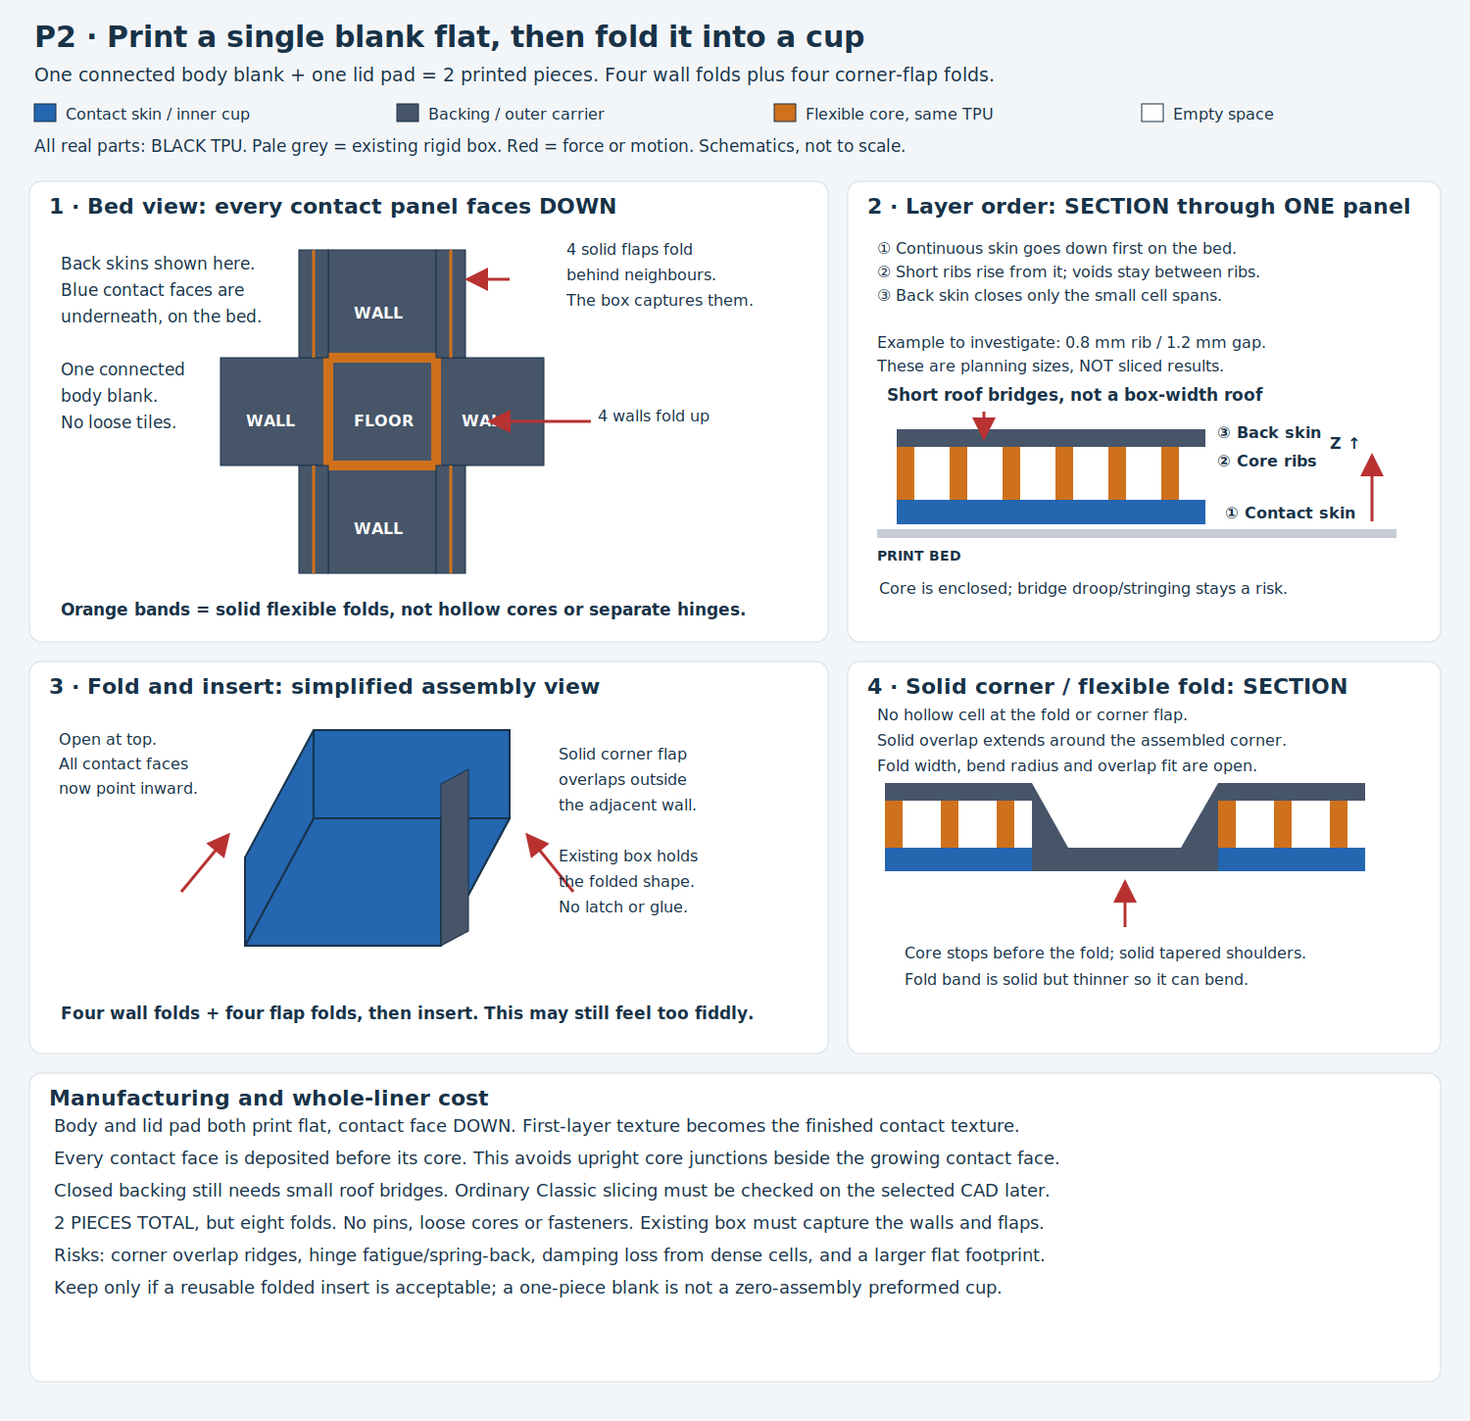
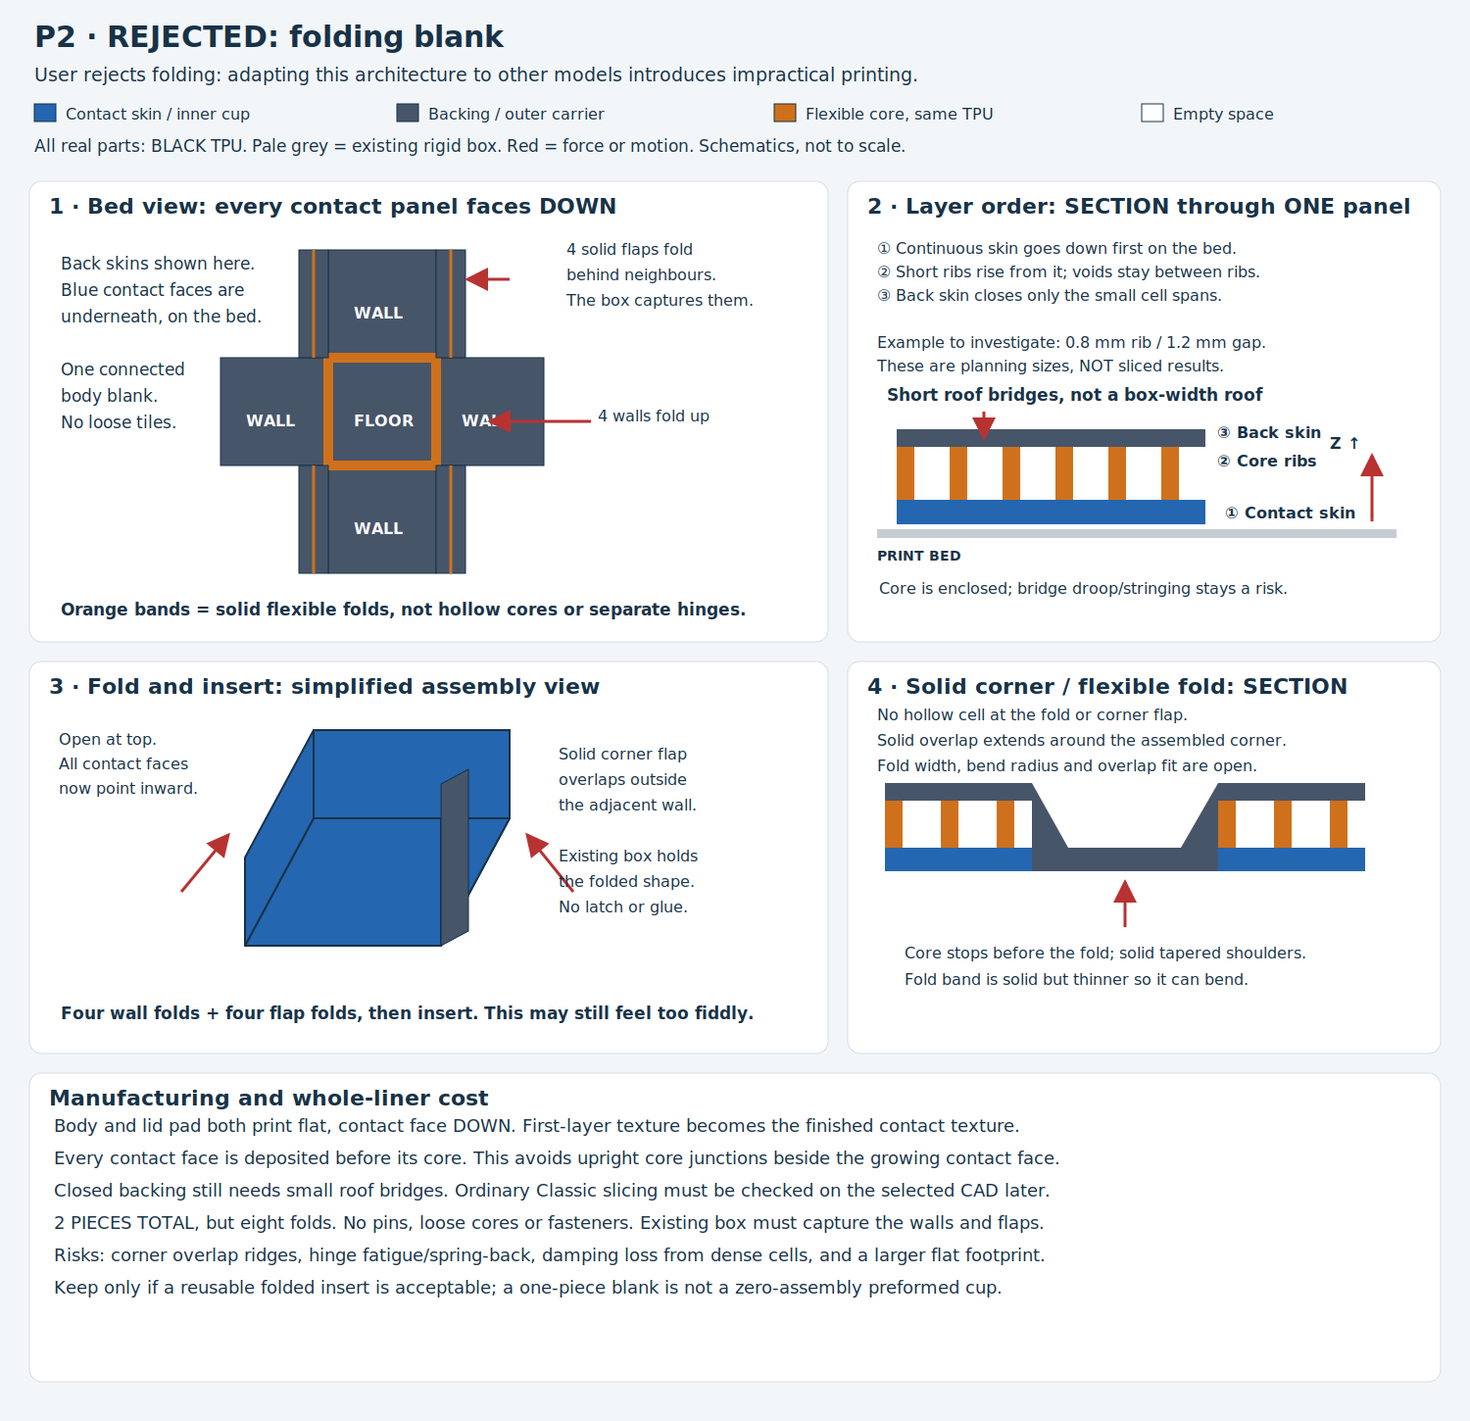
Retire separate-cup and folding TPU concepts after user review

Changed region(s): [[0.0307, 0.0, 0.6747, 0.0621]]

diff --git a/model/tpu_damping_box/notes/print_first_concepts.md b/model/tpu_damping_box/notes/print_first_concepts.md
@@ -14,17 +14,36 @@ baseline. No CAD, exports, slicing or profile changes are made in this phase.
 
 The user confirms **up to two cup pieces, plus the usual lid pad**. P1 meets
 that preference: two cup parts and one pad, three pieces for the complete liner.
-P2 uses one connected body blank and one pad, two total, but requires eight folds.
-P1 is the recommended concept to discuss next because it separates the contact
-cup's print from the core with just a nesting operation. This recommendation is
-not user selection, CAD approval or a damping result. The existing rigid test box
-and its lid are reused and are not additional printed liner components.
+P2 uses one connected body blank and one pad, two total, but requires eight
+folds. **Latest user correction: P1 is set aside.** The user points out that
+thin TPU walls have already printed poorly in this repository, so a separately
+printed thin-walled cup does not resolve the known manufacturing risk. The
+earlier recommendation below is superseded. Part count was acceptable; upright
+wall reliability is the objection. **P2 is also rejected:** the user dislikes
+folding because adopting it to other models would introduce constructions they
+consider impossible to print. A printable flat net for this simple fixture is
+insufficient evidence of a usable architecture for other shapes. Do not replace
+it with separate folding tiles. The existing rigid test box and its lid are
+reused, not additional printed liner components.
+
+The retained [dental wall report](../../dental_travel_case_liner/README.md#wall-
+print-feedback--2026-10-19) records local breaks on both skins of the tall
+liner. The short sunglasses liner was successful; exact causes and printed
+dental revision remain unknown. The separate R1 missing-wall slice failure and
+R2 Classic repair are different evidence: paths existing in a slice do not prove
+reliable deposited walls. P1 removed print-time core junctions but retained
+upright walls and offered no representative physical evidence for them. I should
+have applied this known failure before recommending that architecture. Both
+proposals are now retired from the active shortlist. This correction does not
+establish that all thicker TPU cups fail, nor justify silently thickening P1 and
+promoting it again. Thickness is unconstrained, but reliability and useful
+damping would both need support for any genuinely revised construction.
 
 ## What the manufacturing review changes
 
 | Earlier suggestion | Current decision and reason |
 | --- | --- |
-| E1: two cups with attached wall springs | Reworked as P1, with integral floor posts, rooted wall springs, an open top and **one** lid pad. The earlier floor/lid modules were unresolved, not ready to print. |
+| E1 / P1: two cups with attached wall springs | **Set aside after the latest user correction:** still relies on upright thin TPU walls despite earlier physical failures. Integral floor posts and a simple assembly did not resolve that risk. |
 | E5: independent wave insert | Retired from the active shortlist. A constant-section insert can be printed upright, but a complete liner adds core retention and floor/lid pieces for no established benefit over an integral carrier. |
 | E6: loose hollow tubes | Retired. Upright open tubes need no tube roof, but arranging/retaining numerous tubes and the floor modules is the wrong assembly burden here. This is not a claim that individual tubes are unprintable. |
 | E2/E4 | Remain dropped after user feedback. P2 borrows E2's useful flat-print orientation, replacing separate wall tiles with **one connected blank**, not reviving its multipart assembly. |
@@ -59,7 +78,7 @@ clearance. P2 uses solid fold bands and solid overlapping corner flaps; its fold
 bands are thinner than the sandwich so they can bend. These are different
 interpretations of a robust corner, with untested stiffness and fit.
 
-## P1 — plain inner cup in an integral spring carrier
+## Historical P1 — plain inner cup in an integral spring carrier (set aside)
 
 Print **two upright cup parts**, then drop one inside the other. The blue cup is
 an ordinary closed-floor, open-top cup, with no internal-core junctions in its
@@ -103,13 +122,14 @@ Posts and wall springs can also imprint the cup **after** assembly. P1 removes
 print-time core branching from the inner surface, not every source of marks,
 seams, friction or poor damping.
 
-If advanced to CAD, reject or revise it if the carrier has isolated spring starts,
-its top retention closes a broad roof, its floor posts are too stiff, corner
-lands jam the cup, or the lid requires more loose parts. No auxiliary floor
-module is hidden in this count. This is the simpler assembly option and meets the clarified cup-plus-pad
-preference.
+If advanced to CAD, reject or revise it if the carrier has isolated spring
+starts, its top retention closes a broad roof, its floor posts are too stiff,
+corner lands jam the cup, or the lid requires more loose parts. No auxiliary
+floor module is hidden in this count. The assembly meets the clarified cup-plus-
+pad preference, but this does not resolve the wall-printing objection; P1 is no
+longer recommended.
 
-## P2 — flat sandwich blank, folded into the existing box
+## Historical P2 — flat sandwich blank, folded into the existing box (rejected)
 
 Print one connected cross-shaped body blank **contact face down**, plus one lid
 pad in the same face-down orientation. The floor and four wall panels are joined
@@ -170,20 +190,25 @@ a starting reference for the pad, not proof of changed spans or interfaces.
 
 The two proposals now expose build orientation, all starts/roofs, corner
 construction, floor/lid construction and complete part counts. That permits a
-choice **before** modelling. P1 is the clearer route to independently printed
-contact walls with little assembly; P2 is the route to two total pieces with
-bed-printed contact faces, at the cost of folding. No proposal is promoted to
-approved or better damping. No new physical test is reported.
+choice **before** modelling. Both are now retired: P1 retains the thin upright
+wall risk; P2's folding architecture is rejected for adoption to other models.
+No proposal remains selected from this review and no new physical test is
+reported. This is a corrected architectural decision, not an inconclusive slice.
 
-If one is selected for modelling, use real selected CAD and the ordinary Classic
-slice to check wall generation, the identified bridge layers, seams/travels and
-full layout. Physical comparison to approved B/S is still required for surface
-quality, handling and damping. Current authorized phase remains discussion/SVGs.
+Future exploration should start from the approved B evidence and compare
+preformed constructions that remain printable when adapted to real container
+shapes. One cup piece is preferred, up to two cup pieces plus the usual pad are
+acceptable; complicated assembly, thin separate cups and folding are not the
+current route. This does not yet select another core, guarantee a smoother
+surface or authorize new CAD. The next authorized phase remains concept
+investigation/SVGs, with existing physical failures screened before suggestions
+are recommended.
 
 | Item | Print status | Artifact(s) | User result or remaining physical checks |
 | --- | --- | --- | --- |
 | Test piece(s), P1/P2 | N/A | SVG explainers only; no exported print files | No new physical trial; surface/damping remain unknown. |
-| Final printable object(s), P1/P2 | N/A | None; concept phase | Complete CAD/Classic checks and physical review would follow selection. |
+| Final printable object(s), P1/P2 | N/A | None; concept phase | P1 set aside; P2 rejected. |
+
 - CAD/export/slicer status: N/A — no new model evaluated or sliced.
 - Physical validation: unknown for P1/P2; B08/B16 approval remains separate.
 - Documentation validation: SVG XML parsing, raster preview inspection and

diff --git a/.codex/skills/cadquery-3d-design/references/reusable-model-lessons.md b/.codex/skills/cadquery-3d-design/references/reusable-model-lessons.md
@@ -86,7 +86,7 @@ selecting an experimental liner, and qualify each new application.
 
 **Scope and limits:** Approved starting profile for rigid-shell/TPU impact liners, including the requested sunglasses-case adaptation. Preserve both skins and local rib dimensions; review new coverage, corners, installation, contents and printing. Consult the linked S16 adaptation ironing lesson when choosing the contact-skin finish. Subjective single-setup evidence at user-confirmed 0.2 mm layers; other exact settings, cause, dB, wear and application performance unknown. No universal optimum or material calibration.
 
-**Later comparison:** [2026-10-21 A/B/C report](../../../../model/tpu_damping_box/notes/b_surface_concepts.md): user approves B08/B16 with damping similar to S16 and improved object-facing finish, tentatively favoring B08 print quality; rejects A16/A20 frames and C12/C16 solids for damping. Phone ranges are approximate observations, not calibrated attenuation. Existing B tie layers contain more disconnected deposition chains than layers between ties, while their visible contact contour stays closed. Printed strings/seam artifacts and tall-liner survival remain unresolved; proposed SVG patterns have no CAD/slice/physical qualification. This advances the experiment without replacing successful application-specific S16 evidence. The user subsequently finds D tie changes inadequate as the main surface solution and requests [architectural separation](../../../../model/tpu_damping_box/notes/surface_decoupling.md), explicitly unconstrained in thickness, with solid corner lands. The reported issue is visible surface patterns/occasional bumps in black TPU. The user later finds E1 interesting but its color/space explanation unclear, drops E2/E4 and doubts E3. The later [print-first review](../../../../model/tpu_damping_box/notes/print_first_concepts.md) retires E5/E6 loose cores for complete-liner assembly burden, reworks E1 as an integral carrier and compares a connected flat folding blank. It exposes orientation, layer support, floor/lid and all part counts; the user confirms two cup pieces plus the usual lid pad are acceptable. Three-piece nested and two-piece/eight-fold alternatives remain unselected and have no CAD, slice or physical qualification.
+**Later comparison:** [2026-10-21 A/B/C report](../../../../model/tpu_damping_box/notes/b_surface_concepts.md): user approves B08/B16 with damping similar to S16 and improved object-facing finish, tentatively favoring B08 print quality; rejects A16/A20 frames and C12/C16 solids for damping. Phone ranges are approximate observations, not calibrated attenuation. Existing B tie layers contain more disconnected deposition chains than layers between ties, while their visible contact contour stays closed. Printed strings/seam artifacts and tall-liner survival remain unresolved; proposed SVG patterns have no CAD/slice/physical qualification. This advances the experiment without replacing successful application-specific S16 evidence. The user subsequently finds D tie changes inadequate as the main surface solution and requests [architectural separation](../../../../model/tpu_damping_box/notes/surface_decoupling.md), explicitly unconstrained in thickness, with solid corner lands. The reported issue is visible surface patterns/occasional bumps in black TPU. The user later finds E1 interesting but its color/space explanation unclear, drops E2/E4 and doubts E3. The later [print-first review](../../../../model/tpu_damping_box/notes/print_first_concepts.md) retires E5/E6 loose cores for complete-liner assembly burden, reworks E1 as an integral carrier and compares a connected flat folding blank. It exposes orientation, layer support, floor/lid and all part counts; the user confirms two cup pieces plus the usual lid pad are acceptable. The user subsequently sets aside the nested-cup proposal because separate printing still depends on thin upright TPU walls, which previously failed in the tall dental liner. The user also rejects the flat folding architecture for poor printability when adapted to other model shapes; both proposals are retired, with no CAD, slice or physical qualification. Removing core-to-skin print junctions does not address independent wall stability/deposition risks.
 
 ### Flat-faced folded-web TPU impact liner
 

diff --git a/README.md b/README.md
@@ -179,7 +179,7 @@ and [C6](model/dental_travel_case/notes/clamshell_exploration.md) remain histori
 
 - Test pieces: Yes — prior liners at 0.2 mm layers; S16/S12 work, S16 preferred; I10 rejected. Earlier surface report: waviness remains despite 50% ironing. New [eight 30 mm finish coupons](model/tpu_damping_box/README.md#surface-finish-coupons--2026-10-17): not yet printed; surface and damping comparison pending. Other exact prior settings unknown
 - Final object: N/A — samples; B08/B16 now approved experimental candidates, S16 retained as the earlier approved reference; application fit/quietness require review
-- Current follow-up (2026-10-21): all six latest A/B/C pairs printed and compared. **B08/B16 approved**, similar damping to S16; B08 tentatively has fewer print issues. A16/A20 and solid C12/C16 rejected for damping relative to S16. B's object-facing finish is better, but stringing/seam artifacts remain. [Physical report](model/tpu_damping_box/notes/b_surface_concepts.md); D tie-pattern changes are insufficient as the main solution. [Current print-first SVG investigation](model/tpu_damping_box/notes/print_first_concepts.md) targets visible patterns/occasional bumps in black TPU, with thickness unconstrained and solid corner regions. New drawings show orientation, layer support, bridges and complete liner counts: P1 nested cups has three pieces including its lid pad; P2 flat folding blank has two pieces but eight folds. User confirms up to two cup pieces plus the usual lid pad; complex assembly unwanted. P1 meets that count and is recommended for discussion; both remain unselected, with P2's folding cost explicit. E5/E6 loose cores retired; E2/E4 dropped, E3 set aside. No new models or presets in this phase. Taller-liner breakage risk remains unqualified. Existing [R2 files/setup](model/tpu_damping_box/README.md#ordinary-classic-repair--r2) retained unchanged.
+- Current follow-up (2026-10-21): all six latest A/B/C pairs printed and compared. **B08/B16 approved**, similar damping to S16; B08 tentatively has fewer print issues. A16/A20 and solid C12/C16 rejected for damping relative to S16. B's object-facing finish is better, but stringing/seam artifacts remain. [Physical report](model/tpu_damping_box/notes/b_surface_concepts.md); D tie-pattern changes are insufficient as the main solution. [Current print-first SVG investigation](model/tpu_damping_box/notes/print_first_concepts.md) targets visible patterns/occasional bumps in black TPU, with thickness unconstrained and solid corner regions. Drawings show print orientation, layer support, bridges and complete liner counts. **P1/two cups is now set aside** after the user points out prior thin-TPU-wall printing failures: separate cups do not resolve upright-wall reliability. Up to two cup pieces plus the usual pad are acceptable; part count was not the rejection. **P2/folding is also rejected** for poor printability when adopting to other models. Both proposals retired; future exploration needs preformed constructions, with no replacement selected. E5/E6 loose cores retired; E2/E4 dropped, E3 set aside. No new models or presets in this phase. Taller-liner breakage risk remains unqualified. Existing [R2 files/setup](model/tpu_damping_box/README.md#ordinary-classic-repair--r2) retained unchanged.
 - Provenance: [Record](model/tpu_damping_box/README.md#attribution) · Agent effort: N/A — no performance study requested
 
 #### One-sided dental latch research

diff --git a/model/tpu_damping_box/README.md b/model/tpu_damping_box/README.md
@@ -14,17 +14,18 @@ TPU object-facing surface from the core. D's tie-pattern changes are insufficien
 as the main solution. The user explicitly removes wall/overall thickness limits
 and asks for solid corner regions. Current concerns are mainly visible surface
 patterns with occasional bumps; this is not a translucent-TPU investigation.
-The current [print-first comparison](notes/print_first_concepts.md) shows **P1**, a
-plain cup in an integral spring carrier, and **P2**, a connected flat blank folded
-into a cup. P1 prints upright and has three total pieces including its one lid
-pad; P2 prints contact-face down and has two total pieces but eight folds.
-The user confirms up to two cup pieces **plus the usual lid pad**; complicated
-assembly is unwanted. P1 meets that preference and is the recommended next
-discussion concept; P2's folding cost may still be unacceptable. Neither is
-selected or approved. E5/E6 are
-retired for whole-liner assembly cost; E2/E4 remain dropped and E3 set aside.
-The SVGs now show print orientation, layer support, bridges, corners, floor/lid
-and assembly rather than only wall mechanisms. Deliver SVG explainers only.
+The [print-first comparison](notes/print_first_concepts.md) retains the drawings,
+but **P1/two cups is now set aside**: the user points out that separately printing
+a thin-walled TPU cup still depends on upright-wall reliability that failed in
+earlier repository prints. Removing core junctions does not resolve that risk.
+The user allows up to two cup pieces plus the usual lid pad, so part count was
+acceptable; print reliability is the rejection. **P2/folding is also rejected**:
+the user does not want a folding architecture that becomes impractical to print
+when adapted to other models. Both are retired; no replacement is selected.
+Next exploration must use preformed constructions suited to real container
+shapes and the known wall-printing evidence. B08/B16 stay approved.
+E5/E6 loose cores remain retired; E2/E4 dropped, E3 set aside. Deliver SVG
+explainers only; no new physical trial is reported by this correction.
 **No new CAD models, exports or changed print presets are authorized in this
 phase.** Existing B files and settings remain the printed baseline.
 

diff --git a/.codex/skills/cadquery-3d-design/references/user-preferences.md b/.codex/skills/cadquery-3d-design/references/user-preferences.md
@@ -91,6 +91,12 @@ not make folding or insertion simple. The user explicitly excludes the usual
 lid pad from the one/two-cup-piece limit; still show the whole-liner count.
 [Owning print-first review](../../../../model/tpu_damping_box/notes/print_first_concepts.md).
 This is scoped to the current liner, not a universal ban on multipart products.
+Later feedback sets aside two thin upright cups because of prior wall-printing
+failures, and rejects folding because adapting it to other liner shapes would
+introduce impractical-to-print constructions. Future liner concepts should be
+preformed and transferable to intended container shapes; a simple fixture net
+alone does not settle that adoption. These are architecture decisions, not new
+physical print results or a universal claim that all thick TPU cups fail.
 
 The user reports that this printer is generally precise. Do not assume poor
 accuracy or use generous generic FDM clearances without an interface reason.

diff --git a/.codex/skills/cadquery-3d-design/references/design-decisions.md b/.codex/skills/cadquery-3d-design/references/design-decisions.md
@@ -161,7 +161,11 @@ whole assembly, including loose inserts, and state folding/insertion steps.
 The [subsequent print-first correction](../../../../model/tpu_damping_box/notes/print_first_concepts.md)
 exposed why a wall-only mechanism drawing was insufficient. Revise or drop an
 architecture whose missing components defeat printability or assembly simplicity;
-a printable individual core is not a complete printable liner.
+a printable individual core is not a complete printable liner. Before recommending
+separate shells, check the retained physical failures of those shells: removing
+core junctions does not establish reliability of thin upright walls. In this
+case the user set aside P1 on that existing evidence, despite its feasible layer
+support and acceptable part count.
 
 Useful SVG proposal sketches are valid design-phase deliverables. Retain their
 editable SVGs in the object's `renders/concepts/` directory, with PNG previews

diff --git a/model/tpu_damping_box/notes/surface_decoupling.md b/model/tpu_damping_box/notes/surface_decoupling.md
@@ -17,7 +17,10 @@ liner counts](print_first_concepts.md)**. E1 is reworked there with an integral
 floor core and one lid pad. E5/E6 are retired from the active shortlist for their
 whole-liner part/retention burden, not a claimed failed print of their individual
 parts. P1 is three pieces including the pad; P2 is two pieces but requires eight
-folds. Both costs are exposed before any CAD choice. B08/B16 remain approved.
+folds. Both costs are exposed before any CAD choice. **Latest correction: P1 is set
+aside for depending on upright thin TPU walls despite prior physical failures;
+P2/folding is also rejected for poor printability when adapting to other models.
+Neither remains an active proposal.** B08/B16 remain approved.
 
 The following E sections preserve the earlier proposal and its reasoning;
 their former next steps and shortlists are superseded by that review.
